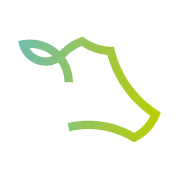
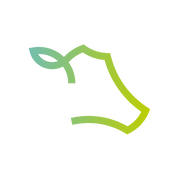
remove transparencia dos icones para ios

Changed region(s): [[0.0833, 0.1944, 0.8889, 0.8056]]

diff --git a/vite.config.ts b/vite.config.ts
@@ -73,8 +73,8 @@ export default defineConfig({
             "type": "image/png"
           },
           {
-            "src": "/img/icons/ios/192.png",
-            "sizes": "192x192",
+            "src": "/apple-touch-icon-180x180.png",
+            "sizes": "180x180",
             "type": "image/png",
             "purpose": "maskable"
           }
